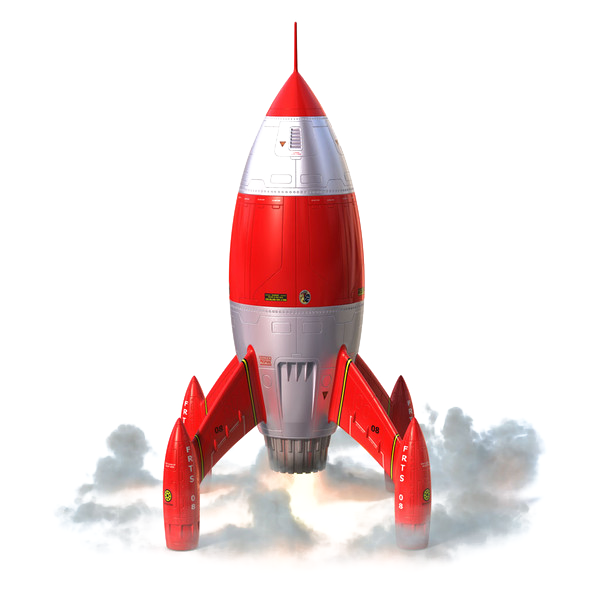
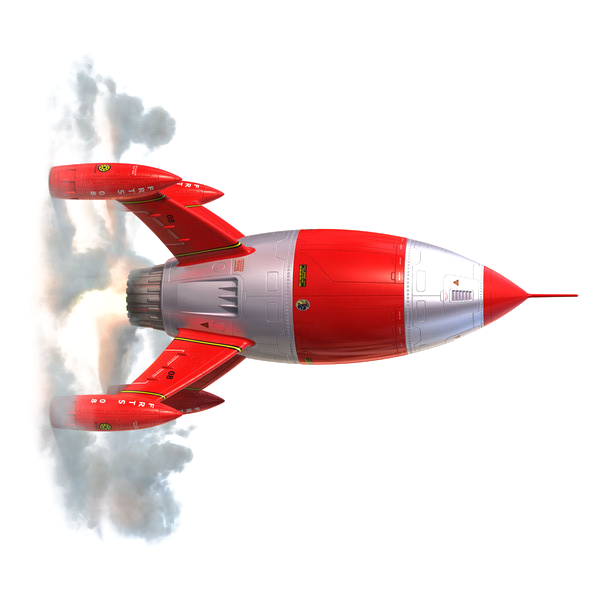
fixed the angle calculation code
it now properly calculates all of the angles and speeds

added a speed() function.

diff --git a/js/sprite.js b/js/sprite.js
@@ -35,45 +35,23 @@
   Sprite.prototype.move = function() {
     this.element.style.left = this.x + 'px';
     this.element.style.top = this.y + 'px';
-  }
+  };
 
   // calculate the angle based on velocities
   Sprite.prototype.angle = function() {
-    var degrees = null;
-    if ( this.velocity_x > 0 ) {
-      degrees = Math.tan( this.velocity_y / this.velocity_x ) * ( 180 / Math.PI );
-    } else {
-      degrees = 0;
+    var degrees = Math.atan2( this.velocity_x, -this.velocity_y ) * ( 180 / Math.PI );
+
+    degrees -= 90;
+    if ( degrees < 0 ) {
+      degrees += 360;
     }
 
-    // vx, vy
-    // 1, 1 -- 45
-    // 0, 1 -- 90
-    // -1, 1 -- 90 + 45
-    // -1, 0 -- 90 + 90
-    // -1, -1 -- 90 + 90 + 45
-    // 0, -1 -- 90 + 90 + 90
-    // 1, -1 -- 90 + 90 + 90 + 45
-    // 1, 0 -- 0
+    return degrees;
+  };
 
-    // quadrants:
-    //  2 | 3
-    // -------
-    //  1 | 0
-
-    var quadrant = 0;
-    if ( this.velocity_x >= 0 && this.velocity_y >= 0 ) {
-      quadrant = 0;
-    } else if ( this.velocity_x <= 0 && this.velocity_y >= 0 ) {
-      quadrant = 1;
-    } else if ( this.velocity_x <= 0 && this.velocity_y <= 0 ) {
-      quadrant = 2;
-    } else if ( this.velocity_x >= 0 && this.velocity_y <= 0 ) {
-      quadrant = 3;
-    }
-
-    return degrees + ( 90 * quadrant );
-  }
+  Sprite.prototype.speed = function() {
+      return Math.sqrt( Math.pow( this.velocity_x, 2 ) + Math.pow( this.velocity_y, 2 ) );
+  };
 
   Sprite.prototype.setAngle = function( angle, speed ) {
     var angle_radians = (( angle ) * ( Math.PI/180 )),
@@ -81,10 +59,8 @@
         scale_y = Math.sin( angle_radians );
 
     if ( typeof speed === 'undefined' ) {
-      speed = Math.sqrt( Math.pow( this.velocity_x, 2 ) + Math.pow( this.velocity_y, 2 ) );
+      speed = this.speed();
     }
-
-    console.log({angle_radians: angle_radians, scale_x: scale_x, scale_y: scale_y, speed:speed})
 
     this.velocity_x = ( speed * scale_x ),
     this.velocity_y = ( speed * scale_y );

diff --git a/js/app.js b/js/app.js
@@ -31,4 +31,5 @@
 
   globals.keyboard_driver = keyboard_driver;
   globals.game_controller = game_controller;
+
 })( window, document );
